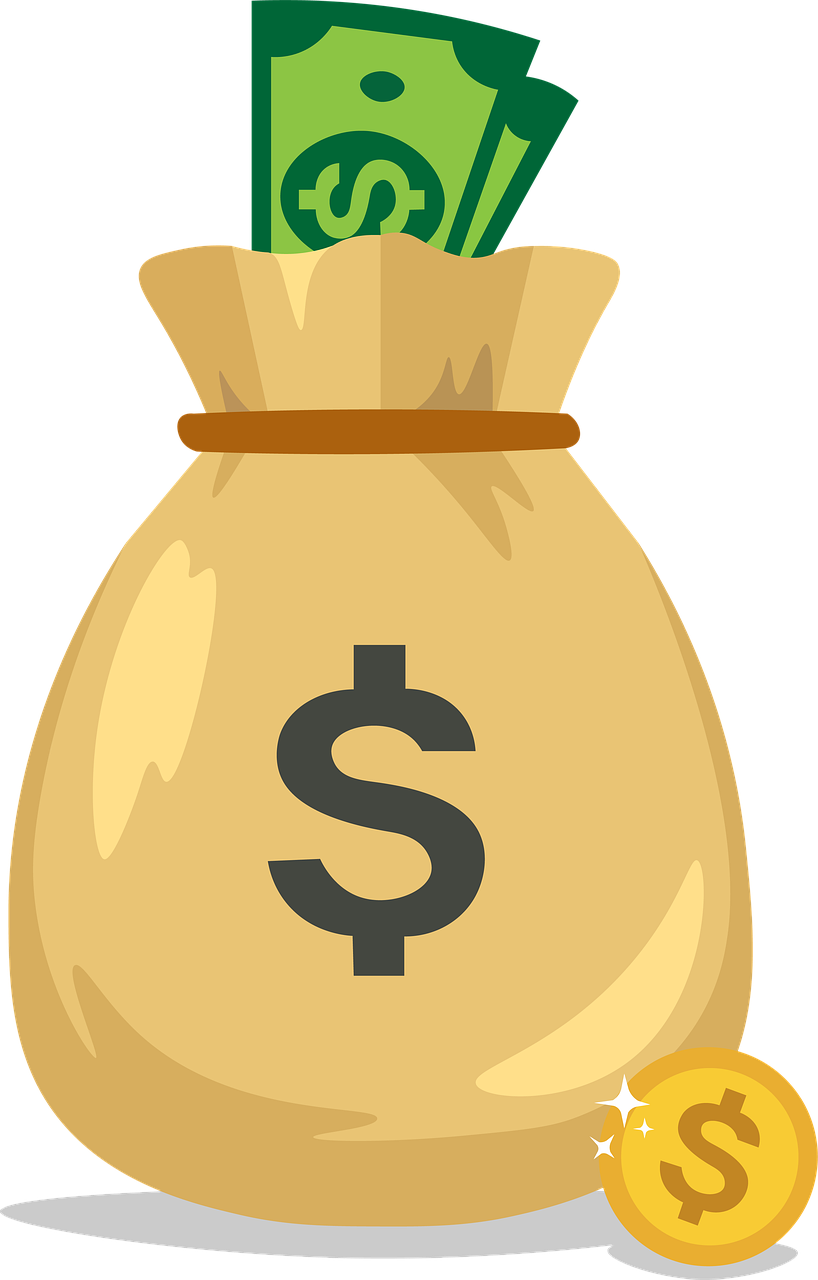
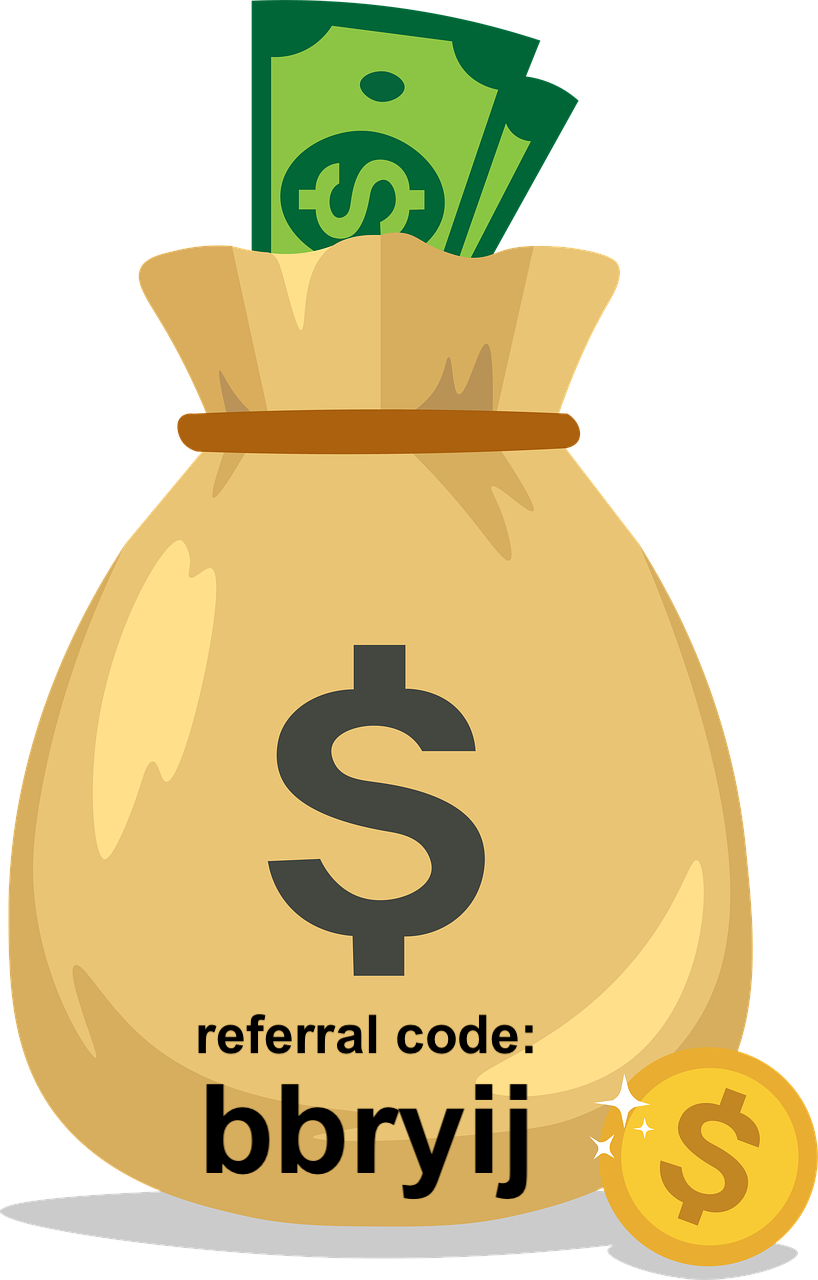
Add files via upload

Changed region(s): [[0.2445, 0.7812, 0.6724, 0.9375]]

diff --git a/weekly overlap/index.html b/weekly overlap/index.html
@@ -16,10 +16,11 @@
           <div class="col-lg-6">
             <h1 class="display-5 fw-bold text-body-emphasis lh-1 mb-3">Get paid <span id="theMath" style="color: blue;">$3</span> to buy these cookies!</h1>
             <ul id="purchaseSteps">
-                <li>Click the money bag to download Ibotta</li>
-                <li>Buy belVita cookies from Publix while BOGO</li>
-                <li>Upload first receipt to get $5 and I get $7</li>
-                <li>Each week new deals appear</li>
+                <li>Click the money bag to download Ibotta.</li>
+                <li>Use referral code on money bag at Sign Up.</li>
+                <li>Buy belVita cookies from Publix while BOGO.</li>
+                <li>Upload first receipt to get $5 and I get $7.</li>
+                <li>Each week new deals appear!</li>
             </ul>
             <div class="d-grid gap-2 d-md-flex justify-content-md-start">
                 <a href="https://ibotta.onelink.me/iUfE/8cc13c64?friend_code=bbryij"><img src="money_bag.png" width="164" height="256" ></a>
